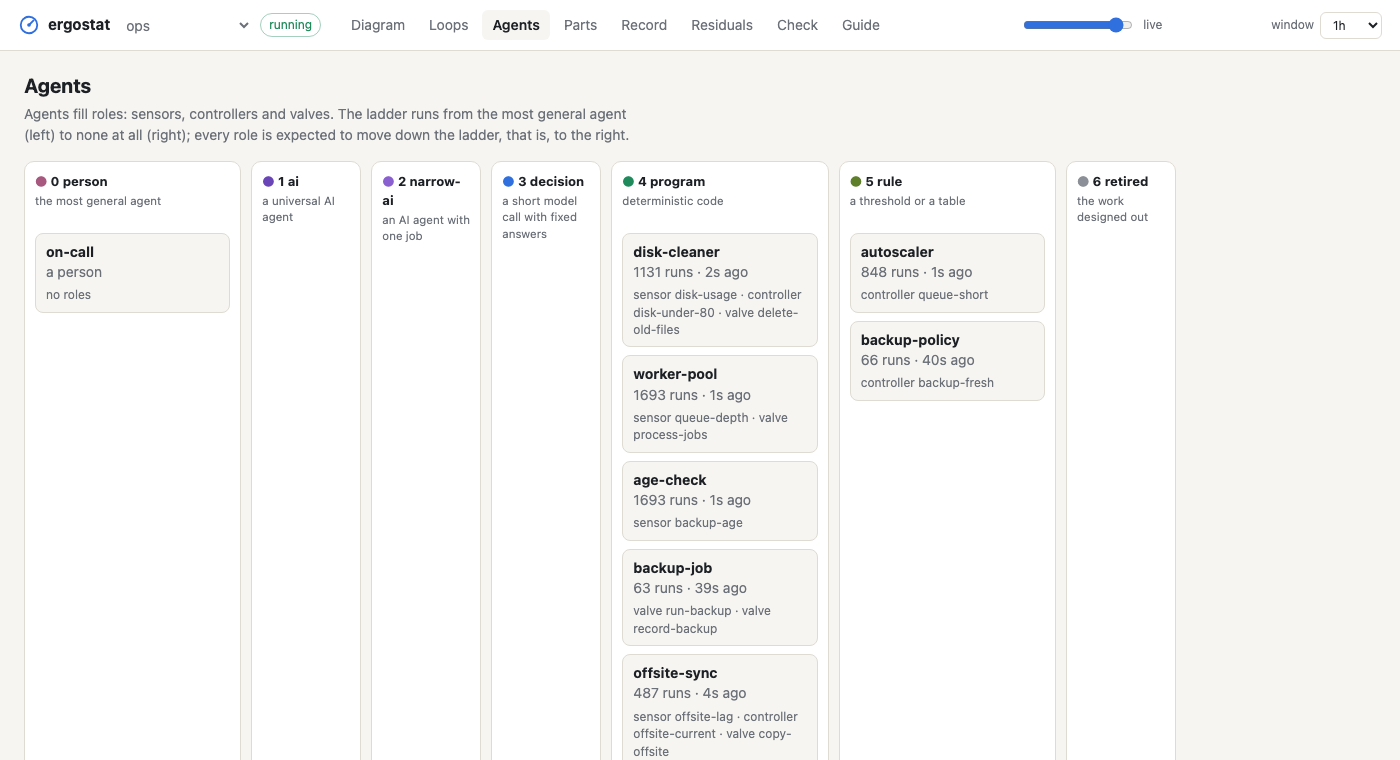
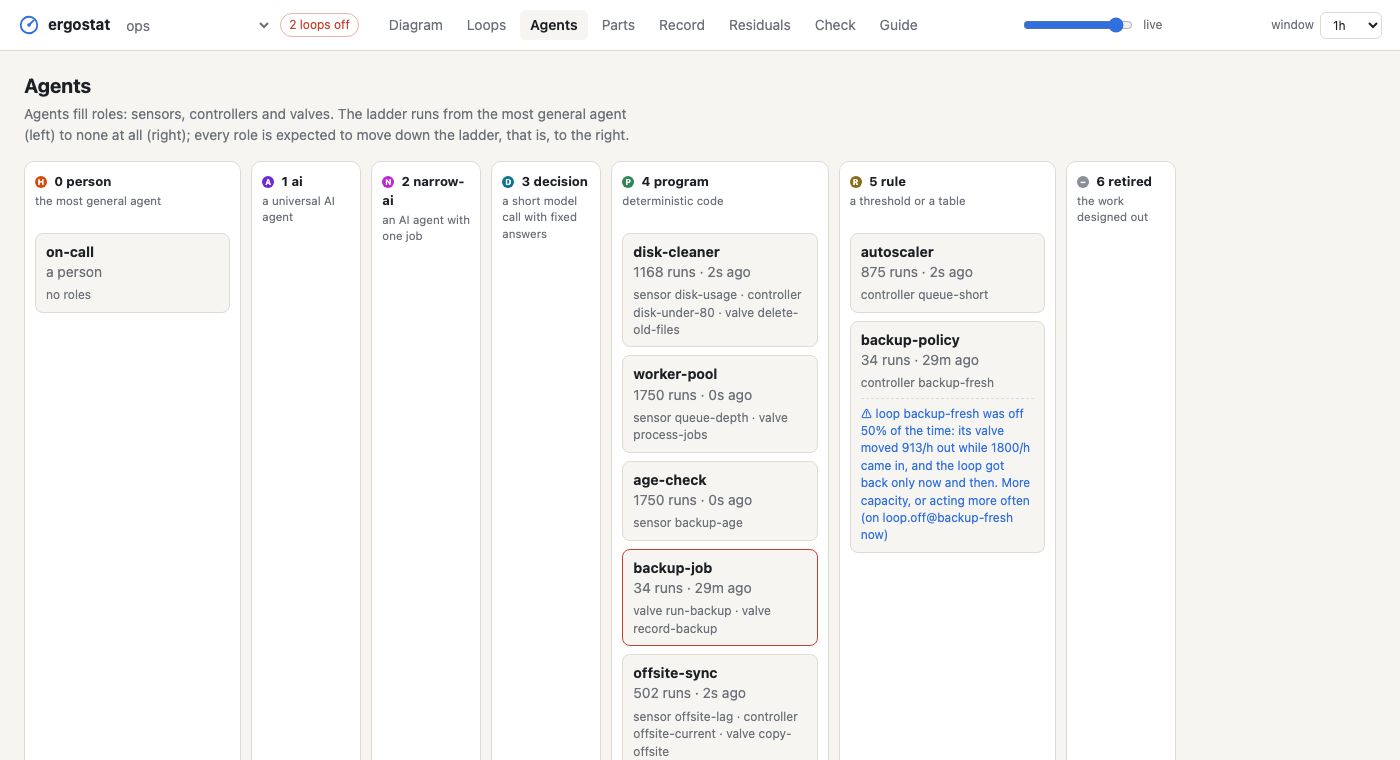
A loop off at start is said again (a lost action is retried); runs killed by our own stop are not failures (round 29)

diff --git a/ergostat/runner.py b/ergostat/runner.py
@@ -33,6 +33,8 @@ from . import state as st
 RUN_TIMEOUT = 300.0
 OWN_TYPES = ("agent.", "loop.", "valve.", "controller.", "model.", "ergostat.")   # no agent may publish these
 LIVE: set = set()          # the runs in progress, so stopping ergostat stops them too
+STOPPING = threading.Event()  # set when ergostat itself stops: a run killed then is not the agent's failure
+STOPPED_WITH_US = "stopped with ergostat"
 
 
 def _kill(p) -> None:
@@ -48,6 +50,7 @@ def _kill(p) -> None:
 
 
 def kill_all() -> None:
+    STOPPING.set()
     for p in list(LIVE):
         _kill(p)
 TICK = 0.25
@@ -311,6 +314,8 @@ def run_agent(project, agent, trigger: dict | None = None, why: str = "schedule"
             if killed.is_set():
                 from .durations import human
                 note = f"stopped after its timeout of {human(agent.timeout)}"
+            elif code != 0 and STOPPING.is_set():
+                note = STOPPED_WITH_US
             elif code != 0:
                 note = f"exited {code}"
     data = {"exit": code, "seconds": round(time.time() - started, 3), **rec.counts, "why": trigger["type"] if trigger else why,
@@ -424,6 +429,13 @@ class Runner:
         threading.Thread(target=self._follow, args=(seq,), daemon=True).start()
         threading.Thread(target=self._prune, daemon=True).start()
         self.p.events.add("ergostat.started", source=SOURCE, data={"agents": sorted(self.queues), "pid": os.getpid()})
+        # a loop off when ergostat starts is said again: what its crossing set off may have been lost
+        # with the last run (a stop, a crash), and an agent listening for loop.off would wait forever
+        from .state import snapshot
+        for name, lp in snapshot(self.p)["loops"].items():
+            if lp["status"] == "off":
+                self.p.events.add("loop.off", item=name, source=SOURCE,
+                                  data={"value": lp["value"], "setpoint": lp["setpoint"], "error": lp["error"], "still": True})
 
     def close(self) -> None:
         self.stop.set()

diff --git a/ergostat/state.py b/ergostat/state.py
@@ -239,7 +239,8 @@ def snapshot(project, window: float = WINDOW, now: float | None = None) -> dict:
                         stale.append(r.name)
         agents[a.name] = {"kind": a.kind, "rung": a.rung, "roles": [{"kind": r.kind, "name": r.name} for r in roles],
                           "every": a.every, "on": a.on, "cron": a.cron, "schedule": a.schedule, **counted,
-                          "last": last_any, "failing": bool(last_any and last_any["type"] == "agent.failed"),
+                          "last": last_any, "failing": bool(last_any and last_any["type"] == "agent.failed"
+                                                            and (last_any.get("data") or {}).get("note") != "stopped with ergostat"),
                           "stale": stale, "runs_itself": bool(a.command and a.kind != "person"),
                           "running_since": running_since}
 
@@ -307,7 +308,7 @@ def ladder_hints(project, snap: dict) -> list[dict]:
             says = (f"loop {name} was off {off}% of the time though its valve can keep up: its controller runs "
                     f"{a.schedule}; run it more often")
         else:
-            says = f"loop {name} was off {off}% of the time though its valve can keep up: it acts too late (on {a.schedule if a else '?'})"
+            says = f"loop {name} was off {off}% of the time though its valve can keep up: it acts too late ({a.schedule if a else '?'})"
         out.append({"controller": name, "agent": c.agent, "kind": a.kind if a else "", "share": lp["off_share"],
                     "count": 0, "decision": "", "about": "loop", "says": says})
     for c in m.controllers.values():

diff --git a/tests/test_runner_and_state.py b/tests/test_runner_and_state.py
@@ -487,3 +487,17 @@ def test_a_wrong_reading_can_be_set_aside(project):
     assert [v for _, v in gone] == [1.7e9]
     assert max(v for _, v in project.measurements.range("sensor/disk-usage", now - 600)) == 72
     assert project.measurements.forget("sensor/disk-usage", above=1000) == []
+
+
+def test_a_loop_off_at_start_is_said_again_and_a_stop_is_not_a_failure(project):
+    project.measurements.add("sensor/disk-usage", 95.0)
+    r = runner.Runner(project, say=lambda s: None)
+    r.start()
+    try:
+        offs = project.events.query(type="loop.off", item="disk-under-80")
+        assert offs and offs[-1]["data"].get("still")
+    finally:
+        r.close()
+        runner.STOPPING.clear()
+    project.events.add("agent.failed", item="cleaner", source="ergostat", data={"exit": -9, "note": runner.STOPPED_WITH_US})
+    assert not state.snapshot(project)["agents"]["cleaner"]["failing"]

diff --git a/docs/cli-rounds.md b/docs/cli-rounds.md
@@ -530,3 +530,15 @@ Ten problems; applied:
 Not applied (noted for later): automatic wrapping of long chains (the wrapped layout detours:
 needs rows broken at stocks), the big demo's block view grouped by system with an overview, and
 drawing another loop's actuator as a coupling rather than as d.
+
+## Round 29: after a restart, a loop that never came back
+
+Found while retaking screenshots: ops's backup-fresh had been off for 890 (simulated) hours. Its
+policy listens for `loop.off`; the backup its crossing asked for was killed by a restart, the loop
+stayed off, and no crossing ever came again. An event-driven controller whose action is lost
+waits forever; and the killed run was shown as the agent's failure ("exited -9").
+
+- When ergostat starts, every loop already off is said again (`loop.off`, `"still": true`), so
+  what listens for it acts. ops recovered within a second of the restart.
+- A run killed because ergostat itself stopped is noted "stopped with ergostat", never a failure.
+- "acts too late (on on loop.off...)": the schedule is said once.
